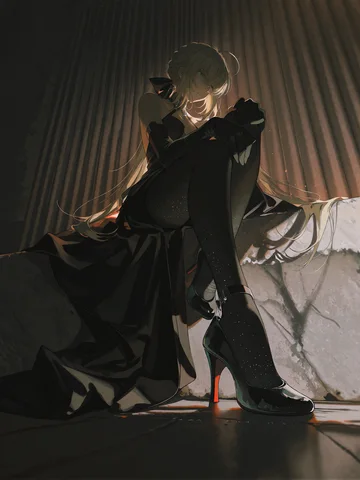
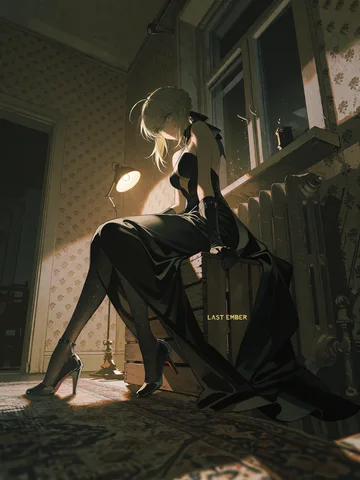
v1.17.0: 坐姿母题换成河岸/公寓/后巷/站台/柱厅 + 重写腿部解剖（踝-膝单接触点/抬腿悬空）+ 新增侧视王座横屏

diff --git a/__init__.py b/__init__.py
@@ -18,7 +18,7 @@ Krea2「白垩光 / 未来奢华编辑主视觉」长文提示词的自动装配
 """
 from __future__ import annotations
 
-__version__ = "1.16.0"
+__version__ = "1.17.0"
 
 from .k2ed_node import K2EditorialBuilder, register_routes
 
